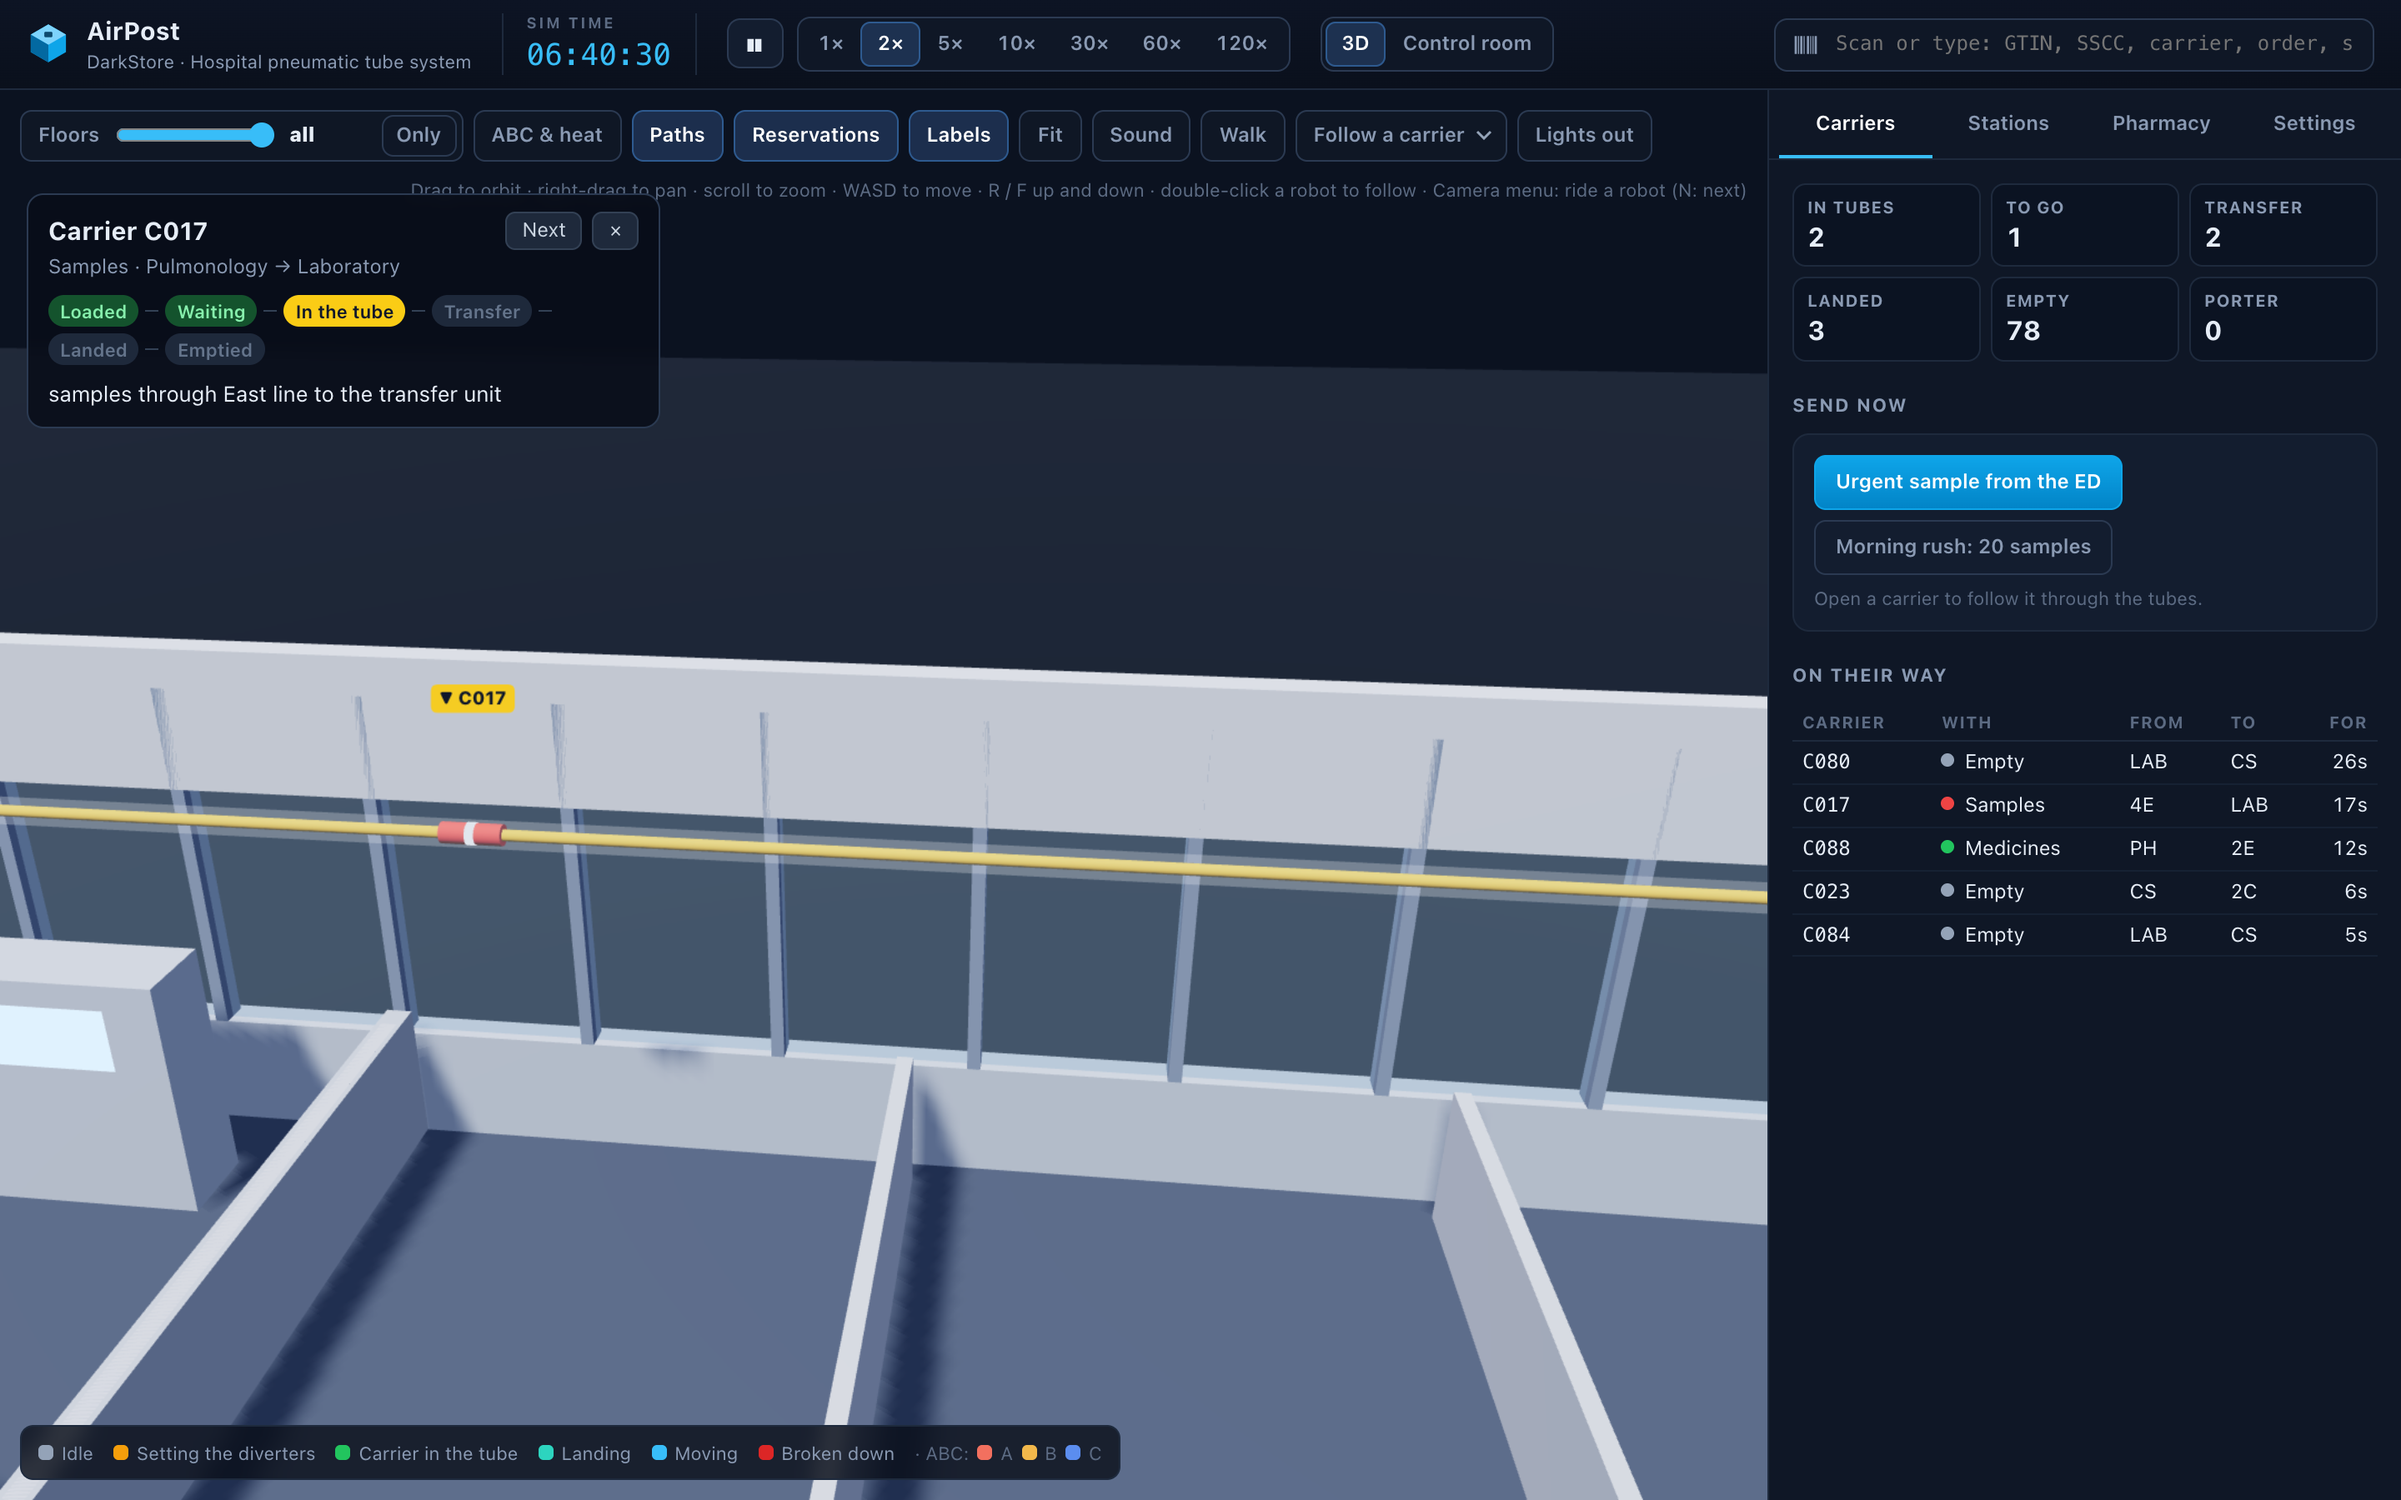
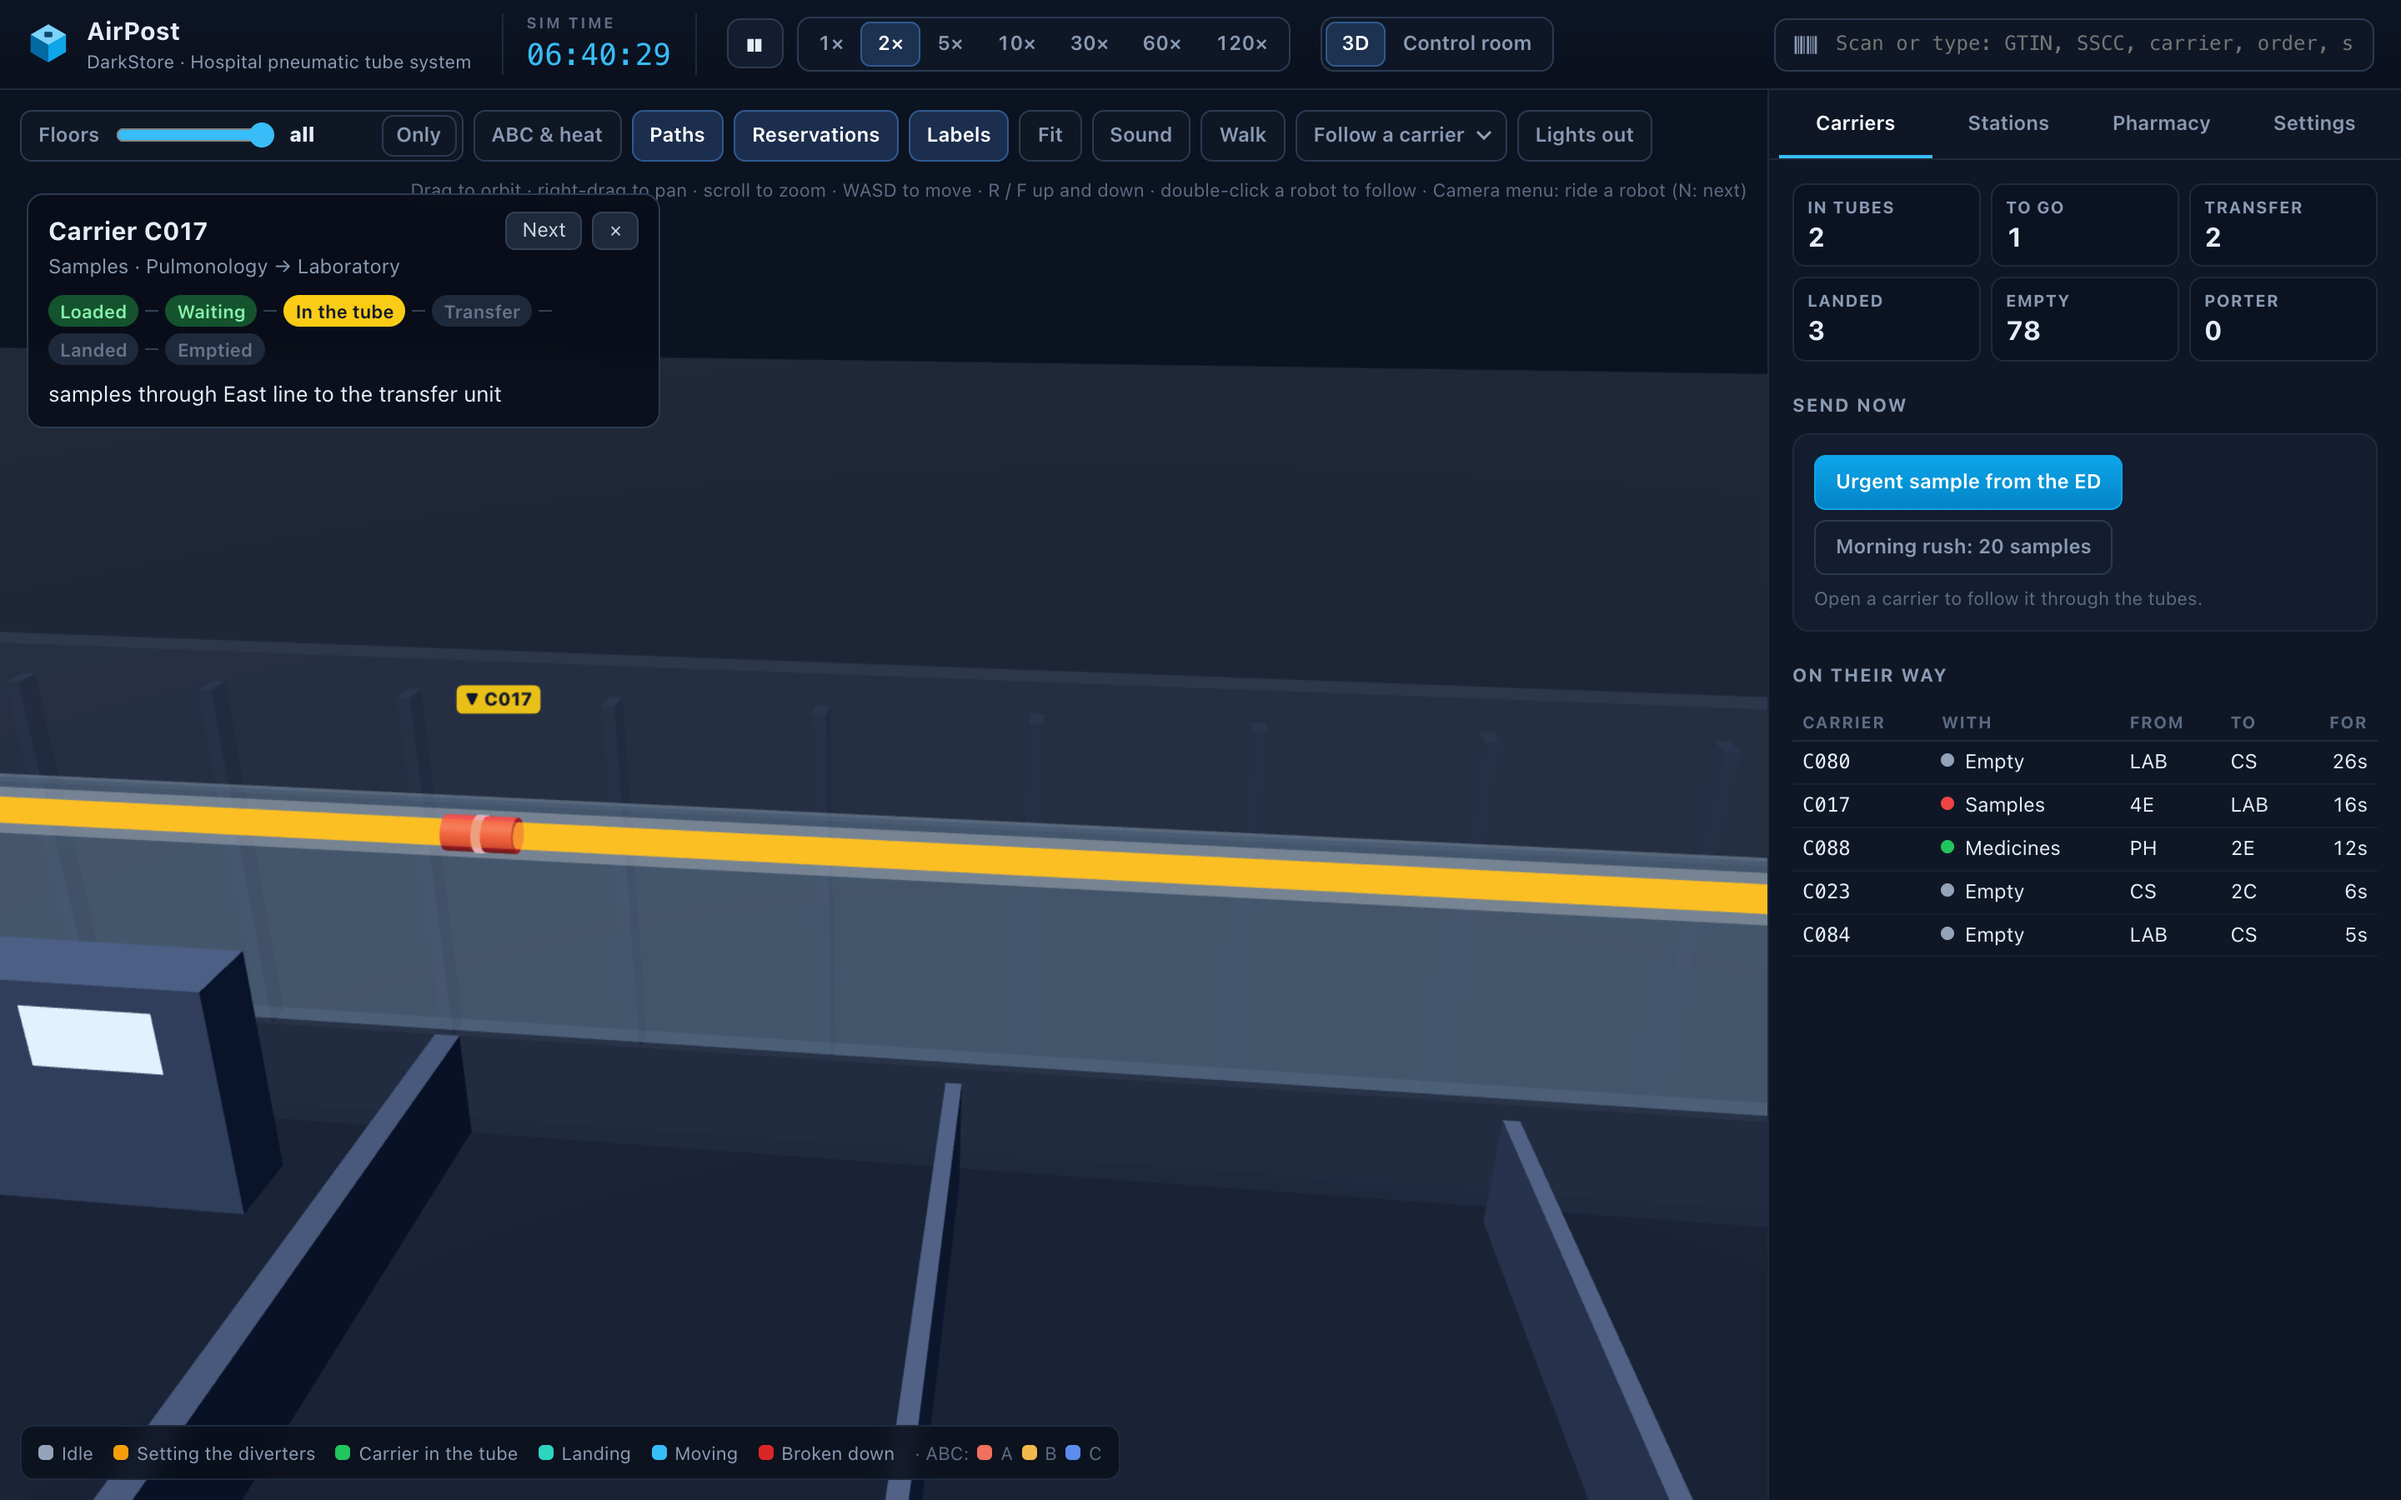
fix(tube): the building steps back so the tubes show
Slabs and facade are faint and see-through, inner walls lower and
furniture dimmed. The tubes' cores are lit and drawn after the
see-through parts, with a faint pass through everything, so a tube or
a moving carrier behind a wall still shows; tubes and carriers are
drawn a little larger than life. The default view is a bit closer.

diff --git a/js/tube/render3d.js b/js/tube/render3d.js
@@ -23,7 +23,7 @@
   const STEPS = ['Loaded', 'Waiting', 'In the tube', 'Transfer', 'Landed', 'Emptied'];
   const lerp = (a, b, t) => (a == null ? b : a + (b - a) * t);
   const clamp01 = (v) => (v < 0 ? 0 : v > 1 ? 1 : v);
-  const R_TUBE = 0.09, R_CAR = 0.07, L_CAR = 0.4, WALL_H = 1.1; // m: inner walls are cut low, so the tubes and stations show
+  const R_TUBE = 0.15, R_CORE = 0.085, R_CAR = 0.115, L_CAR = 0.46, WALL_H = 0.9; // m: inner walls are cut low, so the tubes and stations show
 
   class TubeRenderer3D extends WS.View3D {
     get G() { return this.sim.G; }
@@ -67,8 +67,8 @@
     fit() {
       const G = this.G, c = this.cam;
       // from the street, south-west of the building, its south and west sides cut away
-      Object.assign(c, { walk: false, follow: null, tx: G.X * 0.5, ty: G.D * 0.5, tz: this.lv(G.top * 0.45), yaw: -0.38, pitch: 0.24 });
-      c.dist = (G.X * 1.12) / Math.min(1, this.w / this.h);
+      Object.assign(c, { walk: false, follow: null, tx: G.X * 0.5, ty: G.D * 0.5, tz: this.lv(G.top * 0.42), yaw: -0.38, pitch: 0.3 });
+      c.dist = (G.X * 1.06) / Math.min(1, this.w / this.h);
       this.syncWalkButton();
     }
     placeSun() {
@@ -100,26 +100,46 @@
       }
       this.ground.scale.set(G.X + 160, G.D + 120, 1); this.ground.position.set(G.X / 2, -0.01, G.D / 2 + 10);
       this.ground.material.color.set(this.dark ? '#090d14' : '#1d2632');
-      if (!this.tubesB) this.tubesB = { glass: this.newBatch('cyl', 'clear', 2048, { shadow: false }), tint: this.newBatch('cyl', 'std', 2048, { cast: false }) };
+            // The building stays in the background: slabs and facade faint and see-through, walls and furniture dimmed
+      // (a material's colour multiplies every part's). The tubes' cores and the carriers are drawn after the
+      // see-through parts, so they show through the floors bright; solid walls still hide them.
+      if (!this.ghost) {
+        const T3 = WS.View3D.THREE, Bt = this.st.box.constructor;
+        this.ghostMat = new T3.MeshStandardMaterial({ roughness: 0.9, metalness: 0.02, transparent: true, opacity: 0.2, depthWrite: false, color: '#687284' });
+        const dim = new T3.MeshStandardMaterial({ roughness: 0.85, metalness: 0.05, color: '#5c6678' });
+        const B = (geo, mat, cap, o) => new Bt(this, this.geos[geo], mat, Object.assign({ cap }, o));
+        this.ghost = { slab: B('box', this.ghostMat, 1024, { shadow: false }), box: B('box', dim, 8192, { cast: false }), cyl: B('cyl', dim, 512, { cast: false }), rnd: B('rnd', dim, 256, { cast: false }), dome: B('dome', dim, 64, { cast: false }) };
+        const over = (mat, geo, cap) => { const b = new Bt(this, this.geos[geo], mat, { shadow: false, cap }); b.mesh.renderOrder = 5; return b; };
+        const core = new T3.MeshBasicMaterial({ transparent: true, opacity: 1, toneMapped: false });
+        const body = new T3.MeshStandardMaterial({ roughness: 0.5, metalness: 0.1, transparent: true, opacity: 1 });
+        // and once more through everything, faint: a tube or carrier behind a wall still shows where it is
+        const xray = new T3.MeshBasicMaterial({ transparent: true, opacity: 0.38, toneMapped: false, depthTest: false, depthWrite: false });
+        this.tubesB = { glass: this.newBatch('cyl', 'clear', 2048, { shadow: false }), tint: over(core, 'cyl', 2048), xray: over(xray, 'cyl', 2048) };
+        this.carB = { cyl: over(body, 'cyl', 512), litCyl: over(core, 'cyl', 512), xray: over(xray, 'cyl', 512) };
+        this.tubesB.xray.mesh.renderOrder = this.carB.xray.mesh.renderOrder = 6;
+      }
+      const Gh = this.ghost, GS = { slab: Gh.slab, box: Gh.box, cyl: Gh.cyl, rnd: Gh.rnd, dome: Gh.dome, lit: S.lit, litCyl: S.litCyl, clear: S.clear, glass: S.glass };
+      for (const b of Object.values(Gh)) b.begin();
       for (const b of Object.values(this.tubesB)) b.begin();
-      for (let f = 0; f < this.nF; f++) this.floor(S, f);
+      for (let f = 0; f < this.nF; f++) this.floor(GS, f);
       this.offFloor();
       this.tubes(S);
       this.stationsStatic(S);
-      this.plantRoom(S);
+      this.plantRoom(S, GS);
       this.pharmacyStatic(S);
       this.roof(S);
-      this.street(S);
+      this.street(GS);
       this.offFloor();
       for (const b of Object.values(this.tubesB)) b.end();
+      for (const b of Object.values(Gh)) b.end();
     }
     // a floor: the slab, corridor and rooms, walls with door gaps, and what stands in the rooms
     floor(S, f) {
       const G = this.G, lv = (m) => this.lv(m), wallH = lv(WALL_H), t = 0.06;
       this.onFloor(f);
       // the slab: its underside a little below, so the ceiling shows from the floor below
-      S.box.box(-0.2, -0.2, -lv(0.3), G.X + 0.2, G.D + 0.2, -lv(0.005), f ? '#6e7888' : '#566070');
-      S.box.box(0, 7.6, 0, G.X, 10, lv(0.012), CORR);
+      (S.slab || S.box).box(-0.2, -0.2, -lv(0.3), G.X + 0.2, G.D + 0.2, -lv(0.005), f ? '#6e7888' : '#566070');
+      (S.slab || S.box).box(0, 7.6, 0, G.X, 10, lv(0.012), CORR);
       for (let w = 0; w < G.nW; w++) {
         const x0 = w * G.WW, x1 = x0 + G.WW, centreGround = !f && w === G.ci;
         // rooms on both sides of the corridor, every 4 m (the centre of the ground floor has its own)
@@ -155,7 +175,7 @@
         S.box.rbox(x, y, a, -0.45, -0.95, lv(0.58), 0.45, 0.95, lv(0.66), WHITE);
         S.box.rbox(x, y, a, -0.4, -0.95, lv(0.66), 0.4, -0.6, lv(0.74), '#f8fafc');
         S.box.rbox(x, y, a, -0.47, -1.04, lv(0.25), 0.47, -0.98, lv(1.05), '#94a3b8');
-        S.box.rbox(x, y, a, -0.44, -0.2, lv(0.66), 0.44, 0.9, lv(0.7), type === 'ICU' ? '#7dd3fc' : '#93c5fd');
+        S.box.rbox(x, y, a, -0.44, -0.2, lv(0.66), 0.44, 0.9, lv(0.7), type === 'ICU' ? '#9fb1c4' : '#a8b4c4');
         if (icu) { S.box.rbox(x, y, a, 0.62, -1.0, 0, 0.72, -0.9, lv(1.6), STEEL); S.lit.rbox(x, y, a, 0.55, -0.98, lv(1.35), 0.85, -0.93, lv(1.6), '#22c55e'); }
       };
       if (type === 'WARD' || type === 'ICU') {
@@ -211,7 +231,8 @@
       const G = this.G, lv = (m) => this.lv(m), T = 0.25, top = lv(G.H - 0.3);
       if (!this.walls) {
         this.walls = {};
-        for (const k of ['N', 'S', 'W', 'E']) this.walls[k] = { full: this.newBatch('box', 'std', 2048, { cast: false }), glass: this.newBatch('box', 'glass', 256, { shadow: false }), low: this.newBatch('box', 'std', 512, { cast: false }) };
+        const B = (cap) => new this.st.box.constructor(this, this.geos.box, this.ghostMat, { shadow: false, cap }); // see-through, like the slabs
+        for (const k of ['N', 'S', 'W', 'E']) this.walls[k] = { full: B(2048), glass: this.newBatch('box', 'glass', 256, { shadow: false }), low: B(512) };
       }
       if (f === 0) for (const W of Object.values(this.walls)) { W.full.begin(); W.glass.begin(); W.low.begin(); }
       const put = (B, side, s0, s1, t0, t1, z0, z1, c) => {
@@ -292,11 +313,11 @@
           const zz = Math.min(z1, Math.max(z + 0.01, ze));
           this.skip = !this.shown(fl);
           T.glass.cyl(a.x, a.y, lv(z), lv(zz), R_TUBE, '#dbeafe', pick);
-          T.tint.cyl(a.x, a.y, lv(z), lv(zz), R_TUBE * 0.42, col, pick);
+          T.tint.cyl(a.x, a.y, lv(z), lv(zz), R_CORE, col, pick); T.xray.cyl(a.x, a.y, lv(z), lv(zz), R_CORE, col);
           z = zz;
         }
-      } else if (Math.abs(a.x - b.x) > 1e-6) { T.glass.cylX(Math.min(a.x, b.x), Math.max(a.x, b.x), a.y, lv(a.z), R_TUBE, '#dbeafe', pick); T.tint.cylX(Math.min(a.x, b.x), Math.max(a.x, b.x), a.y, lv(a.z), R_TUBE * 0.42, col, pick); }
-      else if (Math.abs(a.y - b.y) > 1e-6) { T.glass.cylY(a.x, Math.min(a.y, b.y), Math.max(a.y, b.y), lv(a.z), R_TUBE, '#dbeafe', pick); T.tint.cylY(a.x, Math.min(a.y, b.y), Math.max(a.y, b.y), lv(a.z), R_TUBE * 0.42, col, pick); }
+      } else if (Math.abs(a.x - b.x) > 1e-6) { T.glass.cylX(Math.min(a.x, b.x), Math.max(a.x, b.x), a.y, lv(a.z), R_TUBE, '#dbeafe', pick); T.tint.cylX(Math.min(a.x, b.x), Math.max(a.x, b.x), a.y, lv(a.z), R_CORE, col, pick); T.xray.cylX(Math.min(a.x, b.x), Math.max(a.x, b.x), a.y, lv(a.z), R_CORE, col); }
+      else if (Math.abs(a.y - b.y) > 1e-6) { T.glass.cylY(a.x, Math.min(a.y, b.y), Math.max(a.y, b.y), lv(a.z), R_TUBE, '#dbeafe', pick); T.tint.cylY(a.x, Math.min(a.y, b.y), Math.max(a.y, b.y), lv(a.z), R_CORE, col, pick); T.xray.cylY(a.x, Math.min(a.y, b.y), Math.max(a.y, b.y), lv(a.z), R_CORE, col); }
       this.skip = false;
     }
     // the stations on the corridor walls: the unit with its send dock and display, the basket below, the rack of empties beside
@@ -320,7 +341,7 @@
       this.offFloor();
     }
     // the plant room: the transfer unit with its rails, the carrier store, electrical cabinets
-    plantRoom(S) {
+    plantRoom(S, GS) {
       const G = this.G, lv = (m) => this.lv(m), U = G.tu, pick = { kind: 'robot', id: this.sim.tu.id };
       this.onFloor(0);
       S.box.box(U.x - U.w / 2 - 0.2, U.y - 0.45, 0, U.x + U.w / 2 + 0.2, U.y + 0.45, lv(0.6), '#334155', pick);
@@ -329,8 +350,8 @@
       S.clear.box(U.x - U.w / 2 - 0.15, U.y + 0.4, lv(0.6), U.x + U.w / 2 + 0.15, U.y + 0.43, lv(2.1), '#bfdbfe');
       for (let k = 0; k < 3; k++) { S.box.box(G.x0c + 11.0 + k * 0.7, 0.25, 0, G.x0c + 11.6 + k * 0.7, 0.7, lv(2.0), '#64748b'); S.lit.box(G.x0c + 11.1 + k * 0.7, 0.705, lv(1.6), G.x0c + 11.2 + k * 0.7, 0.71, lv(1.7), '#4ade80'); }
       // the plant room's walls
-      S.box.box(G.x0c + 10.4, 0.2, 0, G.x0c + 10.5, 7.6, lv(WALL_H), WALL);
-      S.box.box(G.x0c, 7.55, 0, G.x0c + 10.4, 7.65, lv(WALL_H), WALL);
+      GS.box.box(G.x0c + 10.4, 0.2, 0, G.x0c + 10.5, 7.6, lv(WALL_H), WALL);
+      GS.box.box(G.x0c, 7.55, 0, G.x0c + 10.4, 7.65, lv(WALL_H), WALL);
       // the carrier store: a rack of upright tubes
       if (this.sim.store) { const s = G.store; S.box.box(s.x - 0.45, s.y - 0.7, 0, s.x + 0.45, s.y + 0.7, lv(0.4), '#475569', { kind: 'port', id: this.sim.store.idx }); S.box.box(s.x - 0.45, s.y - 0.7, lv(1.1), s.x + 0.45, s.y + 0.7, lv(1.14), '#475569', { kind: 'port', id: this.sim.store.idx }); }
       this.offFloor();
@@ -385,6 +406,11 @@
 
     // ---------------------------------------------------------------- live
     drawLive(alpha) {
+      for (const b of Object.values(this.carB)) b.begin();
+      this.drawLiveParts(alpha);
+      for (const b of Object.values(this.carB)) b.end();
+    }
+    drawLiveParts(alpha) {
       this.alpha = alpha; this.now = this.sim.time + alpha * this.sim.cfg.tick;
       const sim = this.sim;
       this.drawPacks();
@@ -395,12 +421,12 @@
       this.offFloor();
     }
     // a carrier: a capsule along axis ('x', 'y' or 'z') centred at (x, y, z m), its colour what it carries
-    carrier(cr, x, y, z, axis) {
-      const lv = (m) => this.lv(m), D = this.dy, k = cr.contents ? cr.contents.kind : 'empty', col = KCOL[k], pick = { kind: 'carrier', id: cr.id }, h = L_CAR / 2;
+    carrier(cr, x, y, z, axis, moving) {
+      const lv = (m) => this.lv(m), D = this.carB, k = cr.contents ? cr.contents.kind : 'empty', col = KCOL[k], pick = { kind: 'carrier', id: cr.id }, h = L_CAR / 2;
       const band = cr.contents && cr.contents.stat ? '#fde047' : '#e2e8f0';
-      if (axis === 'z') { D.cyl.cyl(x, y, lv(z - h), lv(z + h), R_CAR, col, pick); D.litCyl.cyl(x, y, lv(z - 0.03), lv(z + 0.03), R_CAR + 0.004, band, pick); }
-      else if (axis === 'x') { D.cyl.cylX(x - h, x + h, y, lv(z), R_CAR, col, pick); D.litCyl.cylX(x - 0.03, x + 0.03, y, lv(z), R_CAR + 0.004, band, pick); }
-      else { D.cyl.cylY(x, y - h, y + h, lv(z), R_CAR, col, pick); D.litCyl.cylY(x, y - 0.03, y + 0.03, lv(z), R_CAR + 0.004, band, pick); }
+      if (axis === 'z') { D.cyl.cyl(x, y, lv(z - h), lv(z + h), R_CAR, col, pick); if (moving) D.xray.cyl(x, y, lv(z - h), lv(z + h), R_CAR, col); D.litCyl.cyl(x, y, lv(z - 0.03), lv(z + 0.03), R_CAR + 0.004, band, pick); }
+      else if (axis === 'x') { D.cyl.cylX(x - h, x + h, y, lv(z), R_CAR, col, pick); if (moving) D.xray.cylX(x - h, x + h, y, lv(z), R_CAR, col); D.litCyl.cylX(x - 0.03, x + 0.03, y, lv(z), R_CAR + 0.004, band, pick); }
+      else { D.cyl.cylY(x, y - h, y + h, lv(z), R_CAR, col, pick); if (moving) D.xray.cylY(x, y - h, y + h, lv(z), R_CAR, col); D.litCyl.cylY(x, y - 0.03, y + 0.03, lv(z), R_CAR + 0.004, band, pick); }
     }
     // a line: the leg it runs glows; its carrier in the tube; the blower's lamp
     drawZone(Z, alpha) {
@@ -418,7 +444,7 @@
         if (L.cr.state === 'IN_TUBE') {
           const p = sim.legPos(L, lerp(Z.os, Z.s, alpha));
           this.skip = !this.shown(this.floorOfZ(p.z));
-          this.carrier(L.cr, p.x, p.y, p.z, Math.abs(p.dz) > 1e-6 ? 'z' : Math.abs(p.dx) > 1e-6 ? 'x' : 'y');
+          this.carrier(L.cr, p.x, p.y, p.z, Math.abs(p.dz) > 1e-6 ? 'z' : Math.abs(p.dx) > 1e-6 ? 'x' : 'y', true);
         }
       }
       const b = Z.blower;
